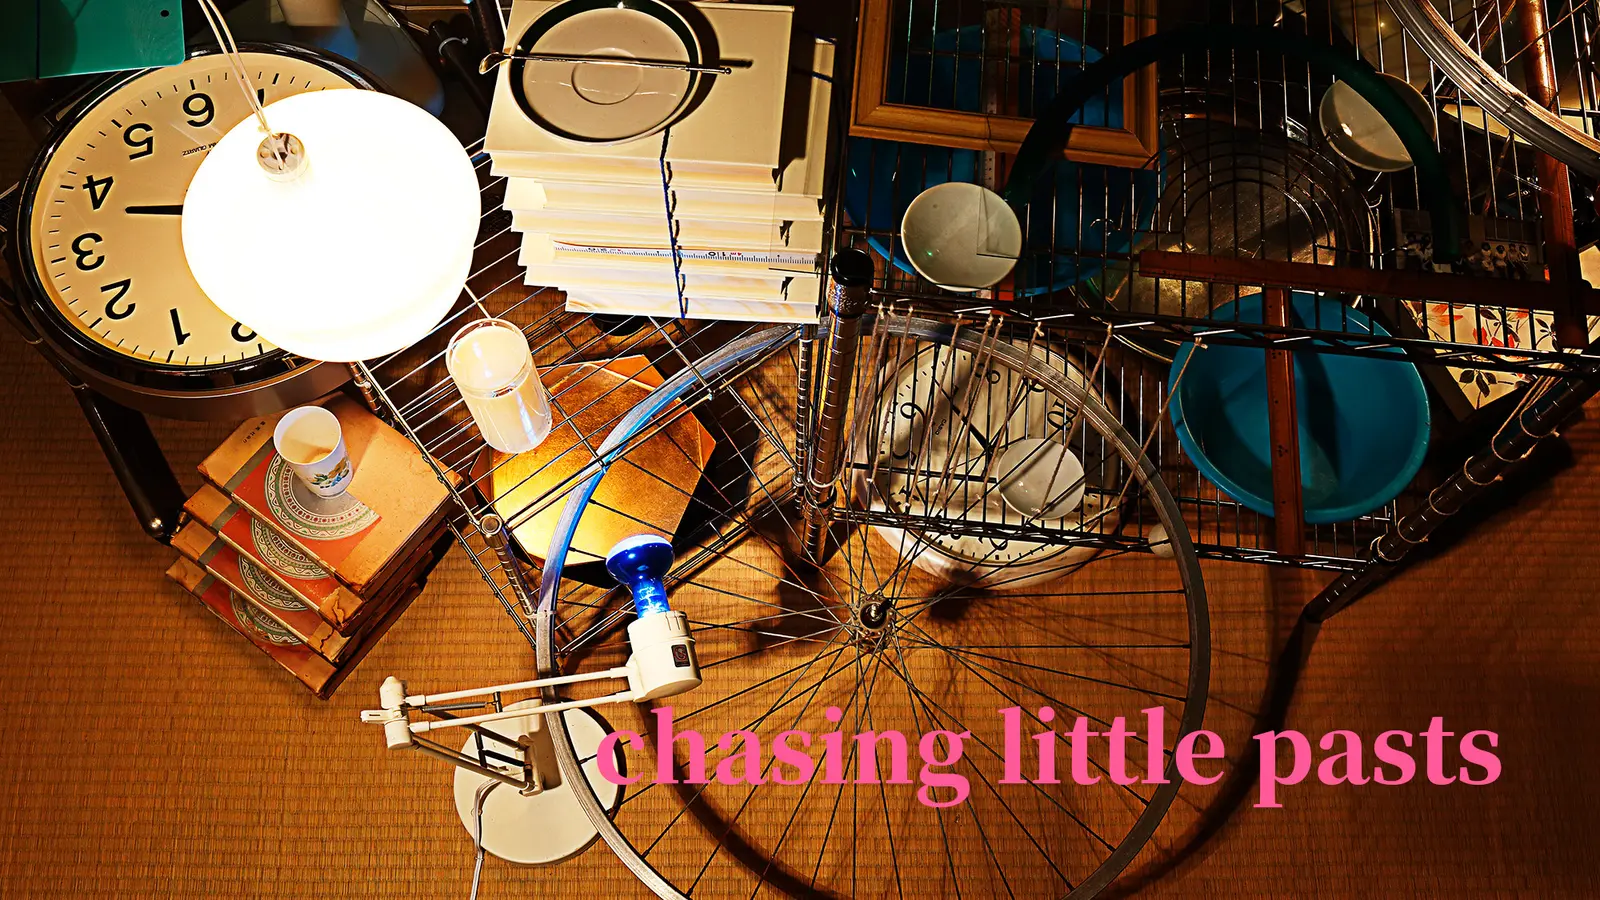
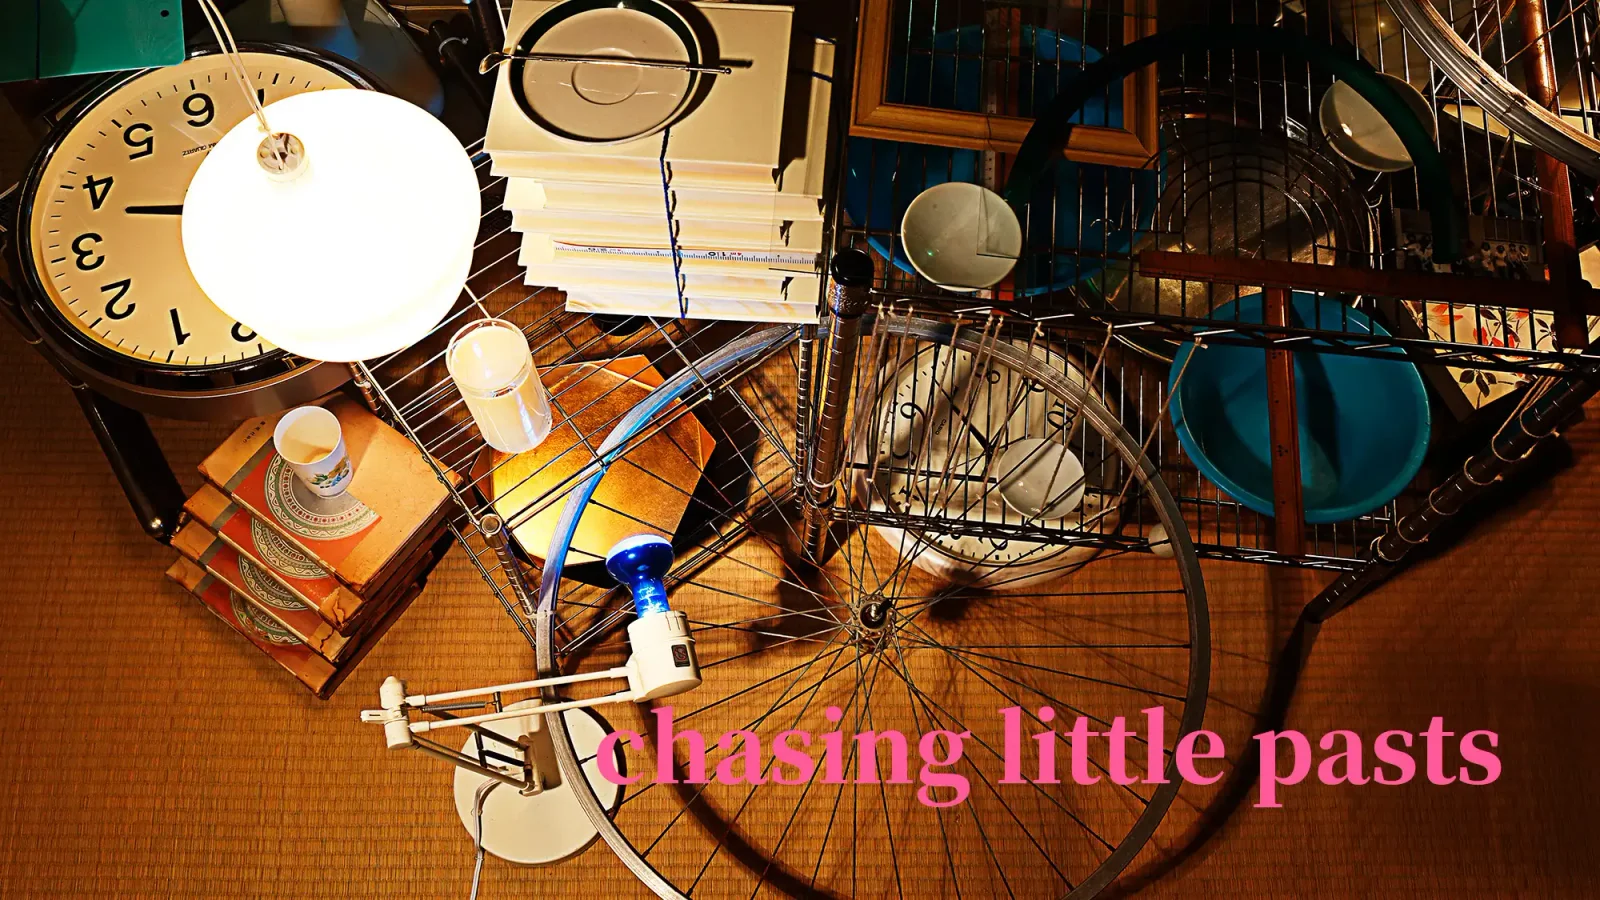
Update project contents

diff --git a/installation.html b/installation.html
@@ -458,7 +458,7 @@
                     <!-- 2018 -->
                     <a href="installation/chasing-a-little-past-kanazawa.html" class="installation-item">
                         <div class="installation-image">
-                            <picture><source srcset="images/_responsive/02installation/02_036_chasing_a_little_past_KANAZAWA/00_2540_basic_16x9_18EA_kioku_MG_8228_installation_000-400.webp 400w, images/_responsive/02installation/02_036_chasing_a_little_past_KANAZAWA/00_2540_basic_16x9_18EA_kioku_MG_8228_installation_000-960.webp 960w" type="image/webp"><img src="images/02installation/02_036_chasing_a_little_past_KANAZAWA/00_2540_basic_16x9_18EA_kioku_MG_8228_installation_000.webp" srcset="images/_responsive/02installation/02_036_chasing_a_little_past_KANAZAWA/00_2540_basic_16x9_18EA_kioku_MG_8228_installation_000-400.webp 400w, images/_responsive/02installation/02_036_chasing_a_little_past_KANAZAWA/00_2540_basic_16x9_18EA_kioku_MG_8228_installation_000-960.webp 960w" sizes="(max-width: 768px) 50vw, 500px" alt="chasing little pasts KANAZAWA" loading="lazy" decoding="async"></picture>
+                            <picture><source srcset="images/_responsive/02installation/02_036_chasing_a_little_past_KANAZAWA/2540_basic_18EA_kioku_MG_8228_installation_000-400.webp 400w, images/_responsive/02installation/02_036_chasing_a_little_past_KANAZAWA/2540_basic_18EA_kioku_MG_8228_installation_000-960.webp 960w" type="image/webp"><img src="images/02installation/02_036_chasing_a_little_past_KANAZAWA/2540_basic_18EA_kioku_MG_8228_installation_000.webp" srcset="images/_responsive/02installation/02_036_chasing_a_little_past_KANAZAWA/2540_basic_18EA_kioku_MG_8228_installation_000-400.webp 400w, images/_responsive/02installation/02_036_chasing_a_little_past_KANAZAWA/2540_basic_18EA_kioku_MG_8228_installation_000-960.webp 960w" sizes="(max-width: 768px) 50vw, 500px" alt="chasing little pasts KANAZAWA" loading="lazy" decoding="async"></picture>
                         </div>
                         <div class="installation-content">
                             <h2 class="installation-title">chasing little pasts</h2>

diff --git a/installation/chasing-a-little-past-kanazawa.html b/installation/chasing-a-little-past-kanazawa.html
@@ -878,7 +878,7 @@
 
     <!-- Main Content -->
     <div class="project-header">
-            <picture><source srcset="../images/_responsive/02installation/02_036_chasing_a_little_past_KANAZAWA/00_2540_basic_16x9_18EA_kioku_MG_8228_installation_000-400.webp 400w, ../images/_responsive/02installation/02_036_chasing_a_little_past_KANAZAWA/00_2540_basic_16x9_18EA_kioku_MG_8228_installation_000-960.webp 960w" type="image/webp"><img src="../images/02installation/02_036_chasing_a_little_past_KANAZAWA/00_2540_basic_16x9_18EA_kioku_MG_8228_installation_000.webp" srcset="../images/_responsive/02installation/02_036_chasing_a_little_past_KANAZAWA/00_2540_basic_16x9_18EA_kioku_MG_8228_installation_000-400.webp 400w, ../images/_responsive/02installation/02_036_chasing_a_little_past_KANAZAWA/00_2540_basic_16x9_18EA_kioku_MG_8228_installation_000-960.webp 960w" sizes="(max-width: 768px) 100vw, 100vw" alt="chasing little pasts kanazawa" loading="lazy" decoding="async"></picture>
+            <picture><source srcset="../images/_responsive/02installation/02_036_chasing_a_little_past_KANAZAWA/2540_basic_18EA_kioku_MG_8228_installation_000-400.webp 400w, ../images/_responsive/02installation/02_036_chasing_a_little_past_KANAZAWA/2540_basic_18EA_kioku_MG_8228_installation_000-960.webp 960w, ../images/_responsive/02installation/02_036_chasing_a_little_past_KANAZAWA/2540_basic_18EA_kioku_MG_8228_installation_000-1600.webp 1600w" type="image/webp"><img src="../images/02installation/02_036_chasing_a_little_past_KANAZAWA/2540_basic_18EA_kioku_MG_8228_installation_000.webp" srcset="../images/_responsive/02installation/02_036_chasing_a_little_past_KANAZAWA/2540_basic_18EA_kioku_MG_8228_installation_000-400.webp 400w, ../images/_responsive/02installation/02_036_chasing_a_little_past_KANAZAWA/2540_basic_18EA_kioku_MG_8228_installation_000-960.webp 960w, ../images/_responsive/02installation/02_036_chasing_a_little_past_KANAZAWA/2540_basic_18EA_kioku_MG_8228_installation_000-1600.webp 1600w" sizes="(max-width: 768px) 100vw, 100vw" alt="chasing little pasts kanazawa" loading="lazy" decoding="async"></picture>
         </div>
 
     <main>

diff --git a/drawing.html b/drawing.html
@@ -331,7 +331,7 @@
         .lightbox-nav {
             position: fixed;
             top: 50%;
-            transform: translateY(-50%);
+            transform: translateY(calc(-50% - 2px)); /* 向上移动 2px，补偿箭头偏下的问题 */
             color: white;
             font-size: clamp(32px, 3vw, 40px);
             cursor: pointer;
@@ -343,6 +343,8 @@
             display: flex;
             align-items: center;
             justify-content: center;
+            line-height: 1;
+            padding: 0;
             transition: all 0.3s ease;
             z-index: 1001;
             opacity: 0.8;
@@ -377,6 +379,14 @@
             .lightbox-nav {
                 border-radius: 50%;
                 background: rgba(0, 0, 0, 0.5);
+                /* 确保箭头在圆形中完全居中 */
+                text-align: center;
+                vertical-align: middle;
+                display: flex;
+                align-items: center;
+                justify-content: center;
+                /* 微调箭头字符在圆圈内的对齐，如果箭头偏下，使用负 margin-top 向上调整 */
+                line-height: 0.9; /* 减小行高，使箭头向上移动 */
             }
             
             .lightbox-nav:hover {

diff --git a/sculpture.html b/sculpture.html
@@ -422,6 +422,8 @@
             display: flex;
             align-items: center;
             justify-content: center;
+            line-height: 1;
+            padding: 0;
             transition: all 0.3s ease;
             z-index: 1001;
             opacity: 0.8;
@@ -456,6 +458,14 @@
             .lightbox-nav {
                 border-radius: 50%;
                 background: rgba(0, 0, 0, 0.5);
+                /* 确保箭头在圆形中完全居中 */
+                text-align: center;
+                vertical-align: middle;
+                display: flex;
+                align-items: center;
+                justify-content: center;
+                /* 微调箭头字符在圆圈内的对齐，如果箭头偏下，使用负 margin-top 向上调整 */
+                line-height: 0.9; /* 减小行高，使箭头向上移动 */
             }
             
             .lightbox-nav:hover {

diff --git a/js/installation-data.js b/js/installation-data.js
@@ -23,7 +23,7 @@ const installationData = [
     {
         id: "chasing-a-little-past-kanazawa",
         title: "chasing little pasts_KANAZAWA",
-        thumbnail: "../images/02installation/02_036_chasing_a_little_past_KANAZAWA/00_2540_basic_16x9_18EA_kioku_MG_8228_installation_000.webp",
+        thumbnail: "../images/02installation/02_036_chasing_a_little_past_KANAZAWA/2540_basic_18EA_kioku_MG_8228_installation_000.webp",
         year: "2018"
     },
     {
